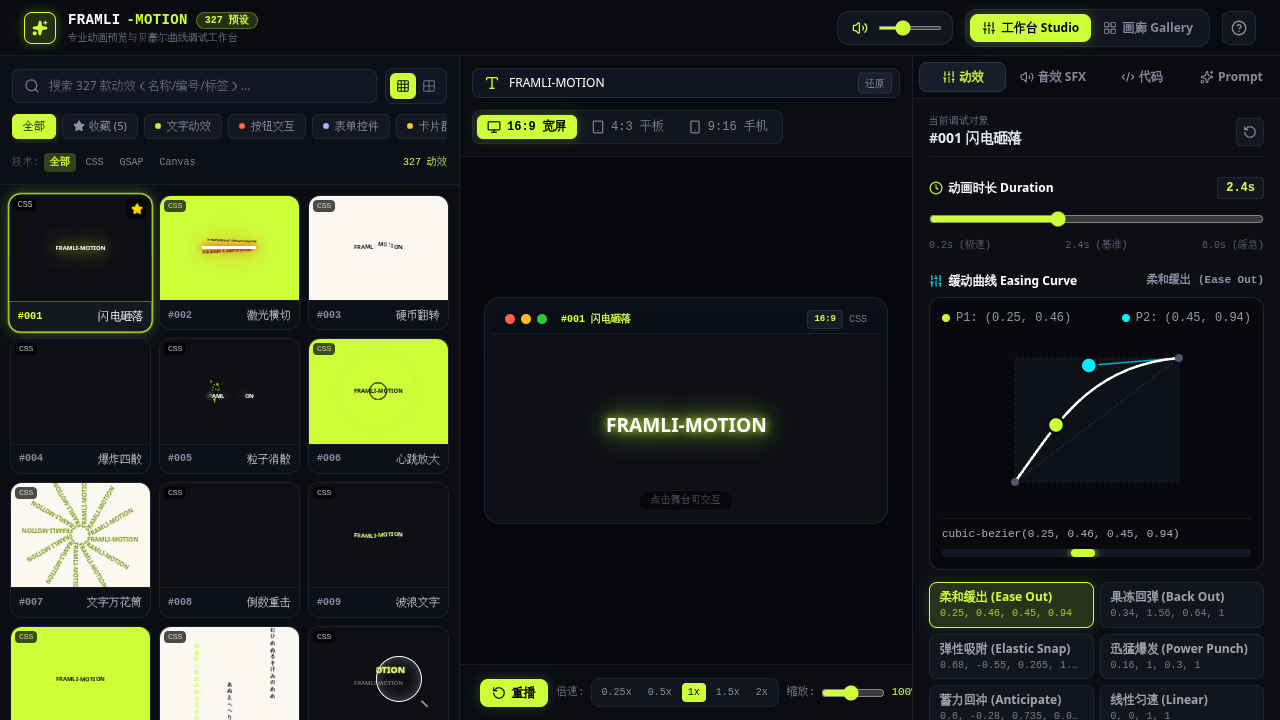
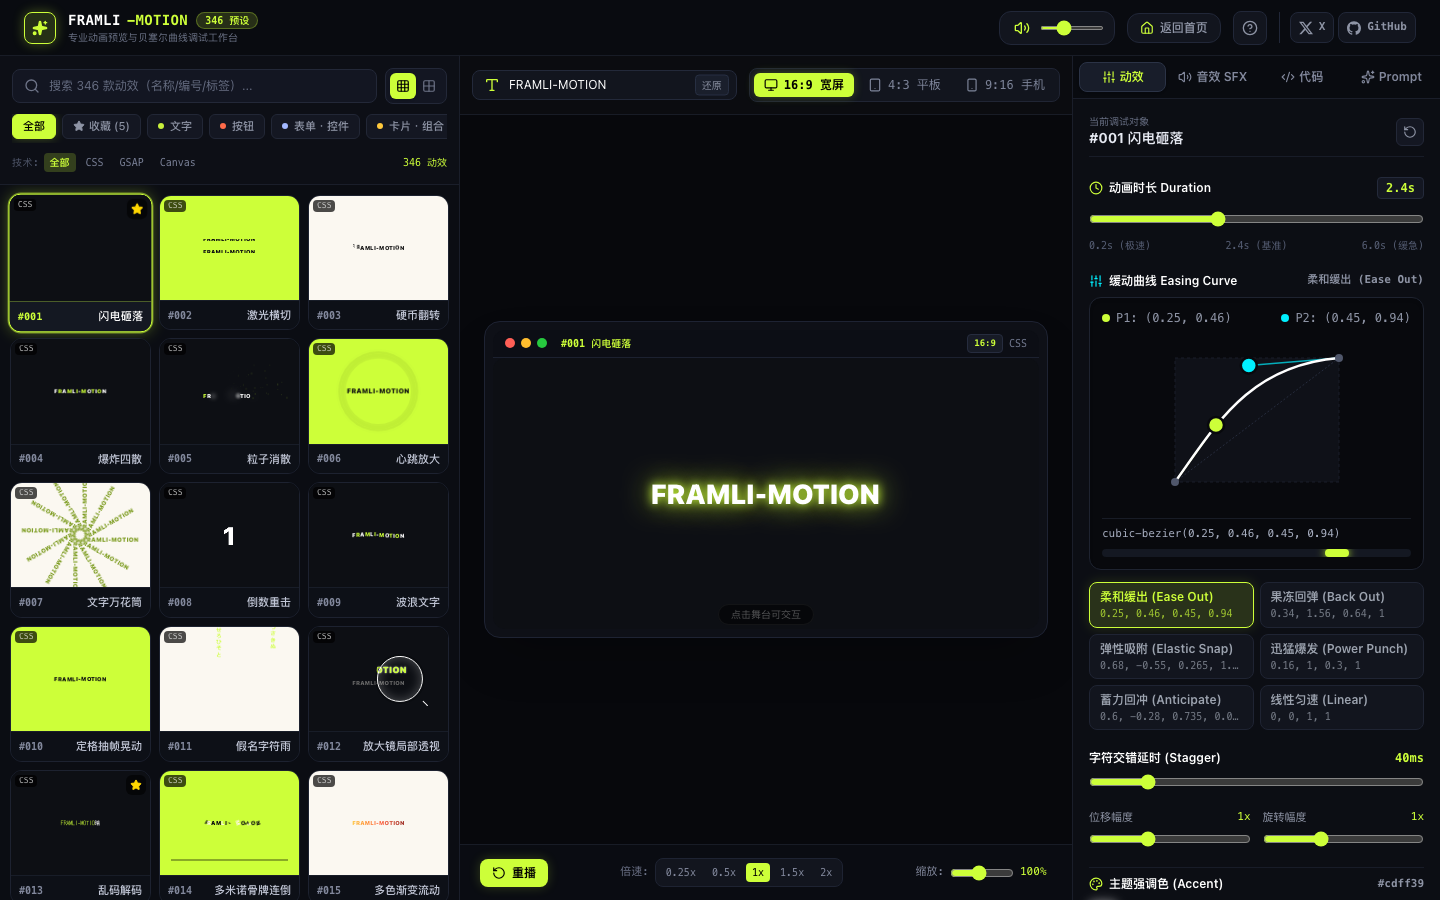
feat: 页面预设数量统一为 340+，更新最新实拍截图与 README

diff --git a/src/components/HomePage.tsx b/src/components/HomePage.tsx
@@ -318,7 +318,7 @@ export const HomePage: React.FC<HomePageProps> = ({
             <span className="w-2 h-2 rounded-full bg-[#cdff39] animate-pulse" />
             <span className="text-[#cdff39] font-bold">FRAMLI-MOTION</span>
             <span className="text-white/40">/</span>
-            <span className="text-white/80">350+ 工业级全品类动效工作台</span>
+            <span className="text-white/80">340+ 工业级全品类动效工作台</span>
           </div>
 
           {/* Headline */}
@@ -333,7 +333,7 @@ export const HomePage: React.FC<HomePageProps> = ({
 
           {/* Subtitle */}
           <p className="max-w-2xl text-sm sm:text-base md:text-lg text-[#949cb3] leading-relaxed mb-10">
-            专为现代 Web 开发者与高级设计工程师打造的动效平台。集成 350+ 经典机械、流体、
+            专为现代 Web 开发者与高级设计工程师打造的动效平台。集成 340+ 经典机械、流体、
             光电与几何力学动效预设，配备毫秒级物理声学合成与贝塞尔曲线实时调试，一键导出生产级代码。
           </p>
 
@@ -353,7 +353,7 @@ export const HomePage: React.FC<HomePageProps> = ({
               className="px-6 py-3.5 rounded-xl bg-[#141722]/80 hover:bg-[#1e2334] text-white font-bold text-sm sm:text-base border border-[#2a3146] transition-all hover:scale-[1.02] active:scale-[0.98] flex items-center gap-2 cursor-pointer backdrop-blur-md shadow-lg"
             >
               <Compass className="w-4 h-4 text-[#cdff39]" />
-              探索 350+ 预设画廊
+              探索 340+ 预设画廊
               <ChevronDown className="w-4 h-4 text-white/50" />
             </button>
           </div>
@@ -433,7 +433,7 @@ export const HomePage: React.FC<HomePageProps> = ({
           <div className="grid grid-cols-2 md:grid-cols-4 gap-4 mt-16 w-full max-w-4xl text-left">
             <div className="p-4 rounded-xl bg-[#0d0f16] border border-[#1a1f2c] flex flex-col gap-1">
               <span className="text-2xl sm:text-3xl font-black text-[#cdff39] font-mono">
-                350+
+                340+
               </span>
               <span className="text-xs font-bold text-white">工业级动效预设</span>
               <span className="text-[11px] text-[#71788e]">
@@ -580,7 +580,7 @@ export const HomePage: React.FC<HomePageProps> = ({
             <span className="font-mono font-bold text-white">FRAMLI-MOTION</span>
             <span>· 专业级动效预览与参数调试工坊</span>
           </div>
-          <div>集成 350+ 动效预设 · 基于 React 19 + TypeScript + Tailwind CSS</div>
+          <div>集成 340+ 动效预设 · 基于 React 19 + TypeScript + Tailwind CSS</div>
         </div>
       </footer>
     </div>

diff --git a/index.html b/index.html
@@ -4,9 +4,9 @@
     <meta charset="UTF-8" />
     <meta name="viewport" content="width=device-width, initial-scale=1.0" />
     <title>Framli-Motion | 专业动效预览与调试工作台</title>
-    <meta name="description" content="Framli-Motion 专业级动画预览与调试工作台，集成 350+ 经典动效预设。支持自定义示例文本、贝塞尔曲线、缓动与时长调参及代码/AI Prompt导出。" />
+    <meta name="description" content="Framli-Motion 专业级动画预览与调试工作台，集成 340+ 经典动效预设。支持自定义示例文本、贝塞尔曲线、缓动与时长调参及代码/AI Prompt导出。" />
     <meta property="og:title" content="Framli-Motion | 专业动效预览与调试工作台" />
-    <meta property="og:description" content="Framli-Motion 专业级动画预览与调试工作台，集成 350+ 经典动效预设。支持自定义示例文本、贝塞尔曲线、缓动与时长调参及代码/AI Prompt导出。" />
+    <meta property="og:description" content="Framli-Motion 专业级动画预览与调试工作台，集成 340+ 经典动效预设。支持自定义示例文本、贝塞尔曲线、缓动与时长调参及代码/AI Prompt导出。" />
     <meta property="og:type" content="website" />
     <meta name="twitter:card" content="summary_large_image" />
     <!-- Google Fonts for Motion effects -->

diff --git a/src/components/Header.tsx b/src/components/Header.tsx
@@ -180,7 +180,7 @@ export const Header: React.FC<HeaderProps> = ({
                 <span className="font-semibold text-white block mb-1">
                   1. 示例文本实时驱动
                 </span>
-                在顶部输入框中输入您想要测试的文本、标点或数字，327 款动效（支持字符分拆、路径轨迹、物理破碎等）将实时重绘生效。
+                在顶部输入框中输入您想要测试的文本、标点或数字，340+ 款动效（支持字符分拆、路径轨迹、物理破碎等）将实时重绘生效。
               </div>
 
               <div className="bg-[#141824] p-3 rounded-xl border border-[#23293c]">

diff --git a/README.md b/README.md
@@ -11,14 +11,22 @@
 </p>
 
 <p align="center">
-  <sub>预设库 → 实时舞台 → Inspector。截图拍于 327 预设版本，当前数据为 346 条。</sub>
+  <sub>预设库 → 实时舞台 → Inspector。2026-11-10 当前版本实拍：Header 显示 346 预设，右上角为 X / GitHub 入口。</sub>
+</p>
+
+<p align="center">
+  <img src="./assets/readme/landing-340.png" width="100%" alt="首页实拍：徽章、简介与「探索 340+ 预设画廊」按钮均标注 340+，右上角为 X 与 GitHub 入口">
+</p>
+
+<p align="center">
+  <sub>首页入口已统一为「340+ 预设画廊」。</sub>
 </p>
 
 **FRAMLI-MOTION 是一个跑在浏览器里的动效调试工作台。** 挑一个预设，拖贝塞尔控制点把节奏调准，配上程序化声效，然后把能直接用的代码复制走。不用装设计软件，也不用猜 `cubic-bezier()` 里那四个数字。
 
 ## 能做什么
 
-- **346 条预设数据**（编号延伸至 #350），按 9 类组件、7 类触发时机以及 CSS / GSAP / Canvas 技术筛选；支持搜索、收藏与键盘切换。
+- **346 条预设数据**（编号延伸至 #350，页面统一标为「340+ 预设画廊」），按 9 类组件、7 类触发时机以及 CSS / GSAP / Canvas 技术筛选；支持搜索、收藏与键盘切换。
 - **可视化缓动编辑**：拖动 P1 / P2 控制点或套用预设曲线，调时长（0.2–6s）、交错、缩放、播放倍速与循环；舞台提供 16:9 / 4:3 / 9:16 三种比例和 4 套主题。
 - **音画同步**：13 种 Web Audio 程序化声效原型，按动效类型自动匹配，只在重播或切换预设时响一次，不循环扰耳。
 - **一次调参，四种产出**：CSS Keyframes、Motion (React)、GSAP 3 代码片段，以及可复制给 AI 的完整动效描述 Prompt。
@@ -80,6 +88,7 @@ assets/readme/       README 的 SVG / GIF 视觉素材与动效参数
 
 ## 相关链接
 
+- [在线预览 · framli-motion.vercel.app](https://framli-motion.vercel.app)
 - [X · @Gotoobig](https://x.com/Gotoobig)
 - [GitHub · FRAMLI--Motion-Studio](https://github.com/pixox24/FRAMLI--Motion-Studio)
 
